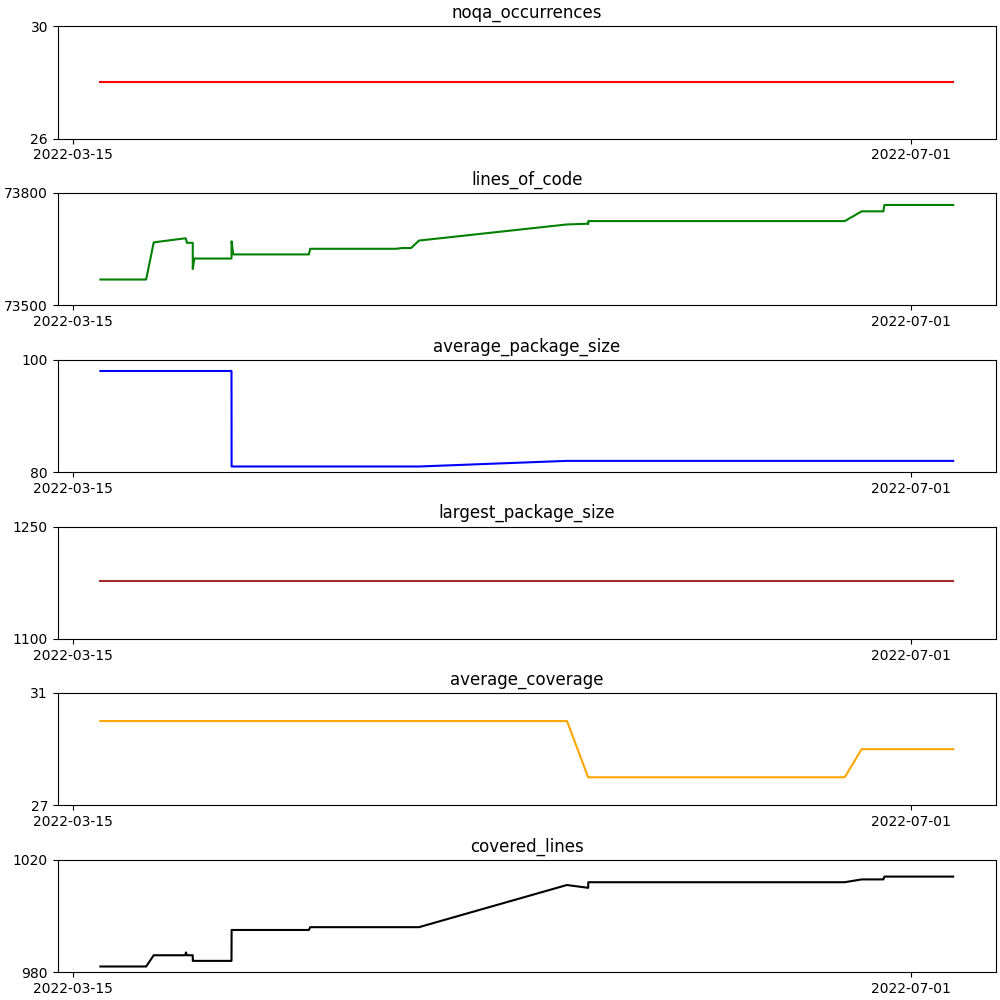
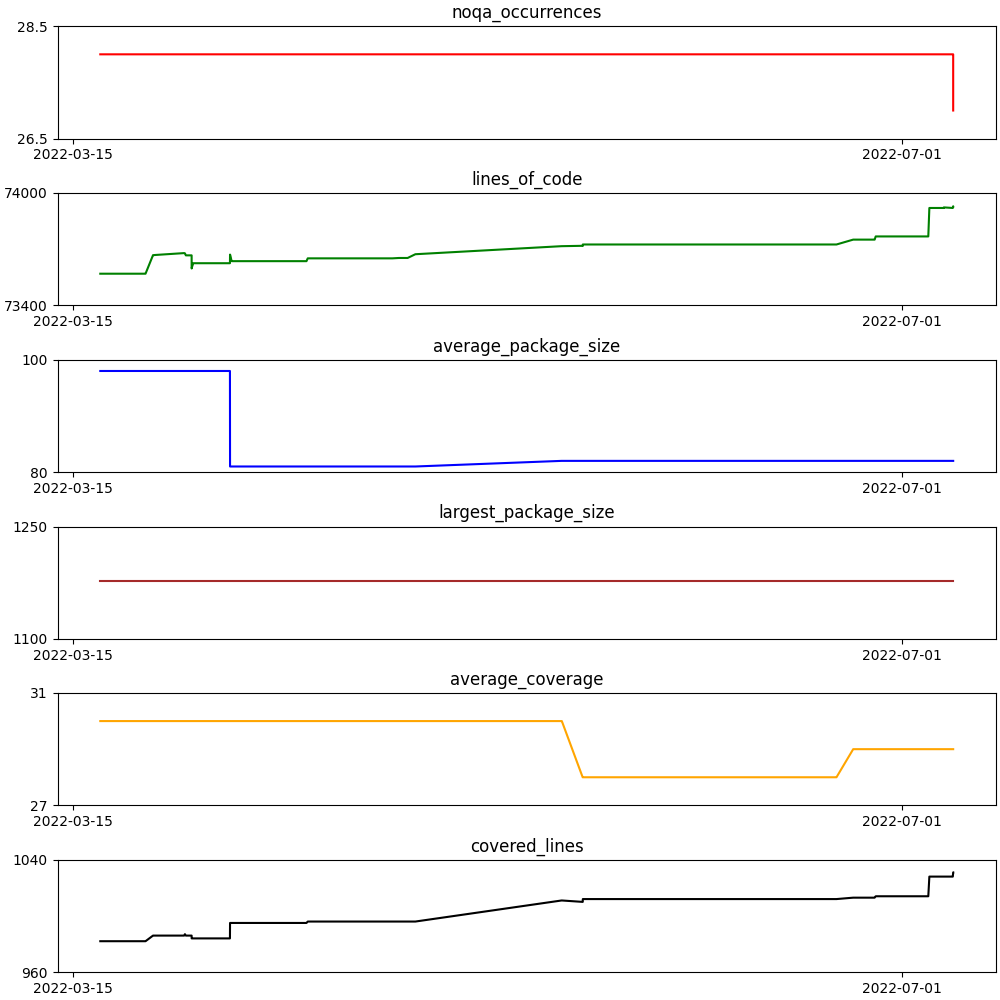
Feature - TRSV2-190 - Feature Flags (#166)
* View to add user to group

* Added link to feature flag management page to caseworker dropdown

Finalised views to delete and add a user to a group

* [ci skip] AUTOMATED - update fitness functions

* black formatting

* [ci skip] AUTOMATED - update fitness functions

* Changed requirements.txt to point to feature flag client branch

* [ci skip] AUTOMATED - update fitness functions

* Added test feature flag for team

* [ci skip] AUTOMATED - update fitness functions

* Fixed dodgy imports that were failing on jenkins

* [ci skip] AUTOMATED - update fitness functions

* Updated requirements.txt and removed testing feature flag

* [ci skip] AUTOMATED - update fitness functions

* [ci skip] AUTOMATED - update fitness functions

* Cleaned up the conditional checking for permission to manage feature flags

* [ci skip] AUTOMATED - update fitness functions

* Removed noqa and black formatting

* [ci skip] AUTOMATED - update fitness functions

diff --git a/trade_remedies_caseworker/templates/v2/feature_flags/retrieve.html b/trade_remedies_caseworker/templates/v2/feature_flags/retrieve.html
@@ -1,0 +1,59 @@
+{% extends "base.html" %}
+{% load text_element %}
+{% load custom_filters %}
+{% load application_heading %}
+{% load format_date %}
+
+{% block heading %}
+    {{ feature_flag.name }}
+{% endblock %}
+
+{% block main_content %}
+    <div class="grid-row">
+        <div class="column-two-thirds">
+            {% if feature_flag.users_in_group %}
+                <table class="govuk-table">
+                    <thead class="govuk-table__head">
+                    <tr class="govuk-table__row">
+                        <th scope="col" class="govuk-table__header">Name</th>
+                        <th scope="col" class="govuk-table__header">Email</th>
+                        <th scope="col" class="govuk-table__header">Action</th>
+                    </tr>
+                    </thead>
+                    <tbody class="govuk-table__body">
+                    {% for user in feature_flag.users_in_group %}
+                        <form method="post"
+                              action="{% url 'edit_user_group' group_name=feature_flag.name %}?method=delete">
+                            {% csrf_token %}
+                            <tr class="govuk-table__row">
+                                <th scope="row" class="govuk-table__header">{{ user.name }}</th>
+                                <td class="govuk-table__cell">{{ user.email }}</td>
+                                <td class="govuk-table__cell">
+                                    <button type="submit" name="user_to_change" value="{{ user.id }}">Delete user from
+                                        group
+                                    </button>
+                                </td>
+                            </tr>
+                        </form>
+                    {% endfor %}
+                    </tbody>
+                </table>
+            {% else %}
+                <strong>There are no users in this group</strong>
+            {% endif %}
+            <div class="margin-top-2">
+                <h3>Add a new user to group</h3>
+                <form method="post"
+                      action="{% url 'edit_user_group' group_name=feature_flag.name %}?method=put">
+                    {% csrf_token %}
+                    <select name="user_to_change">
+                        {% for user in feature_flag.users_not_in_group %}
+                            <option value="{{ user.id }}">{{ user.name }} ({{ user.email }})</option>
+                        {% endfor %}
+                    </select>
+                    <button type="submit">Add</button>
+                </form>
+            </div>
+        </div>
+    </div>
+{% endblock %}

diff --git a/trade_remedies_caseworker/templates/v2/feature_flags/list.html b/trade_remedies_caseworker/templates/v2/feature_flags/list.html
@@ -1,0 +1,34 @@
+{% extends "base.html" %}
+{% load text_element %}
+{% load custom_filters %}
+{% load application_heading %}
+{% load format_date %}
+
+{% block heading %}
+    Manage Feature Flags
+{% endblock %}
+
+{% block main_content %}
+    <div class="grid-row">
+        <div class="column-two-thirds">
+            <table class="govuk-table">
+                    <thead class="govuk-table__head">
+                    <tr class="govuk-table__row">
+                        <th scope="col" class="govuk-table__header">Name</th>
+                        <th scope="col" class="govuk-table__header">Action</th>
+                    </tr>
+                    </thead>
+                    <tbody class="govuk-table__body">
+                    {% for feature_flag in feature_flags %}
+                            <tr class="govuk-table__row">
+                                <th scope="row" class="govuk-table__header">{{ feature_flag.name }}</th>
+                                <td class="govuk-table__cell">
+                                    <a href="{% url 'view_feature_one_flag' feature_flag_name=feature_flag.name %}">Manage this feature flag</a>
+                                </td>
+                            </tr>
+                    {% endfor %}
+                    </tbody>
+                </table>
+        </div>
+    </div>
+{% endblock %}

diff --git a/trade_remedies_caseworker/templates/cases/cases.html b/trade_remedies_caseworker/templates/cases/cases.html
@@ -58,6 +58,9 @@
 						{% if user.permissions.workflow_editor %}
 							<li><a href="/settings/system_parameters/">Set system parameters</a></li>
 						{% endif %}
+                        {% if user.is_super_user %}
+                            <li><a href="{% url 'view_feature_flags' %}">View Feature Flags</a></li>
+                        {% endif %}
 					{% endif %}
 					{% if user.permissions.create_ex_oficio %}
 						<li><a href="/case/create/">Create a new ex-officio case</a></li>

diff --git a/trade_remedies_caseworker/core/views.py b/trade_remedies_caseworker/core/views.py
@@ -2,6 +2,7 @@ import os
 import json
 
 from django.http import HttpResponse
+from django.urls import reverse
 from django.views.generic import TemplateView, View
 from django.shortcuts import render, redirect
 from django.contrib.auth.mixins import LoginRequiredMixin
@@ -12,6 +13,8 @@ from core.constants import (
 )
 from core.base import GroupRequiredMixin
 from trade_remedies_client.mixins import TradeRemediesAPIClientMixin
+
+from core.constants import SECURITY_GROUP_SUPER_USER
 
 health_check_token = os.environ.get("HEALTH_CHECK_TOKEN")
 
@@ -128,3 +131,41 @@ class FeedbackFormExportView(
         response = HttpResponse(file, content_type="application/vnd.ms-excel")
         response["Content-Disposition"] = "attachment; filename=trade_remedies_export.xlsx"
         return response
+
+
+class ViewFeatureFlags(
+    LoginRequiredMixin, GroupRequiredMixin, TemplateView, TradeRemediesAPIClientMixin
+):
+    groups_required = SECURITY_GROUP_SUPER_USER
+    template_name = "v2/feature_flags/list.html"
+
+    def get_context_data(self, **kwargs):
+        context = super().get_context_data(**kwargs)
+        context["feature_flags"] = self.client(self.request.user).v2_get_all_feature_flags()
+        return context
+
+
+class ViewOneFeatureFlag(
+    LoginRequiredMixin, GroupRequiredMixin, TemplateView, TradeRemediesAPIClientMixin
+):
+    groups_required = SECURITY_GROUP_SUPER_USER
+    template_name = "v2/feature_flags/retrieve.html"
+
+    def get_context_data(self, **kwargs):
+        context = super().get_context_data(**kwargs)
+        context["feature_flag"] = self.client(self.request.user).v2_get_one_feature_flag(
+            kwargs["feature_flag_name"]
+        )
+        return context
+
+
+class EditUserGroup(LoginRequiredMixin, GroupRequiredMixin, View, TradeRemediesAPIClientMixin):
+    groups_required = SECURITY_GROUP_SUPER_USER
+
+    def post(self, request, group_name):
+        self.client(request.user).v2_change_user_group(
+            group_name=group_name,
+            user_pk=request.POST["user_to_change"],
+            request_method=request.GET["method"],
+        )
+        return redirect(reverse("view_feature_one_flag", kwargs={"feature_flag_name": group_name}))

diff --git a/trade_remedies_caseworker/core/urls.py b/trade_remedies_caseworker/core/urls.py
@@ -6,6 +6,8 @@ from core.views import (
 )
 from cases.views import SubmissionCreateView
 
+from core.views import EditUserGroup, ViewFeatureFlags, ViewOneFeatureFlag
+
 urlpatterns = [
     path("bundles/create/", SubmissionCreateView.as_view(), name="create_submission"),
     path(
@@ -24,4 +26,11 @@ urlpatterns = [
         FeedbackFormExportView.as_view(),
         name="form_export",
     ),
+    path("feature_flags/", ViewFeatureFlags.as_view(), name="view_feature_flags"),
+    path(
+        "feature_flags/<str:feature_flag_name>",
+        ViewOneFeatureFlag.as_view(),
+        name="view_feature_one_flag",
+    ),
+    path("add_user_to_group/<str:group_name>/", EditUserGroup.as_view(), name="edit_user_group"),
 ]

diff --git a/trade_remedies_caseworker/core/models.py b/trade_remedies_caseworker/core/models.py
@@ -39,6 +39,10 @@ class TransientUser:
         """
         return any([grp in self.groups for grp in SECURITY_GROUPS_TRA_TOP_ADMINS])
 
+    @property
+    def is_super_user(self):
+        return any([grp in self.groups for grp in SECURITY_GROUPS_TRA_ADMINS])
+
     def reload(self, request):
         """
         Reload the user from the API

diff --git a/trade_remedies_caseworker/core/constants.py b/trade_remedies_caseworker/core/constants.py
@@ -47,6 +47,8 @@ SECURITY_GROUPS_TRA_TOP_ADMINS = [
     SECURITY_GROUP_TRA_HEAD_OF_INVESTIGATION,
 ]
 
+SECURITY_GROUPS_SUPER_USER = [SECURITY_GROUP_SUPER_USER]
+
 SUBMISSION_TYPE_REGISTER_INTEREST = 7
 SUBMISSION_STATUS_INTEREST_SUFFICIENT = 21
 SUBMISSION_STATUS_INTEREST_DEFICIENT = 22

diff --git a/trade_remedies_caseworker/cases/views.py b/trade_remedies_caseworker/cases/views.py
@@ -815,7 +815,7 @@ class SubmissionView(CaseBaseView):
         return_data.update({"template_name": template_name, "mode": "form"})
         return return_data
 
-    def post(  # noqa: C901
+    def post(
         self,
         request,
         case_id,
